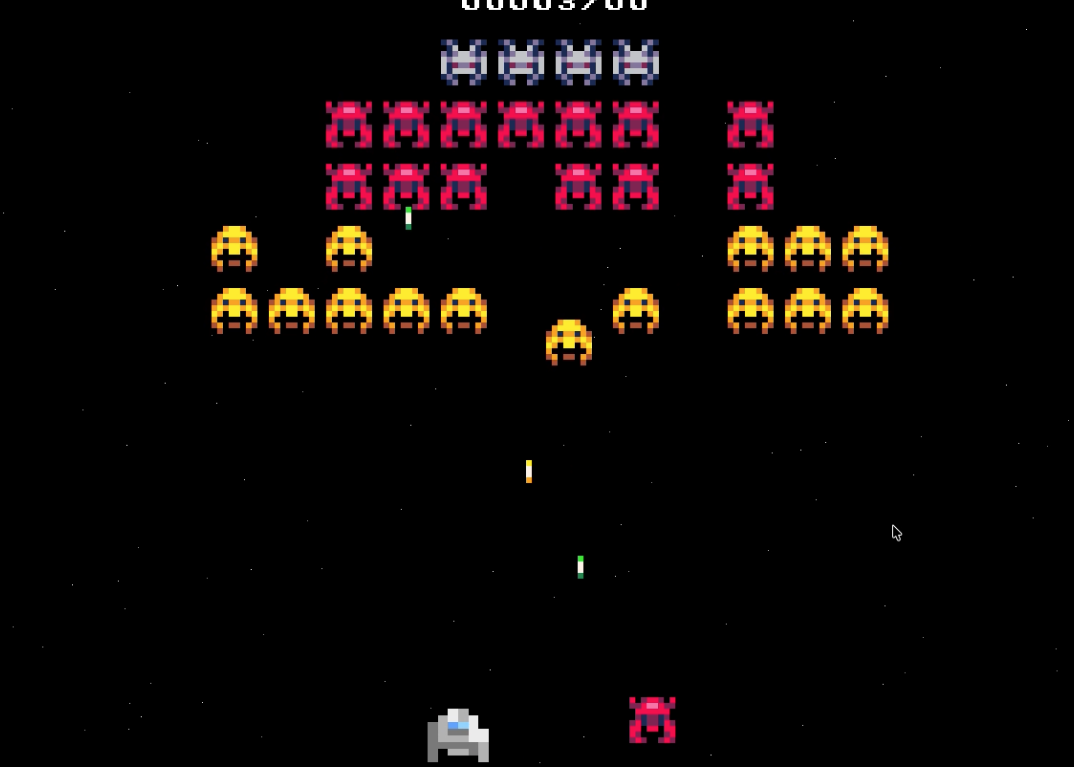
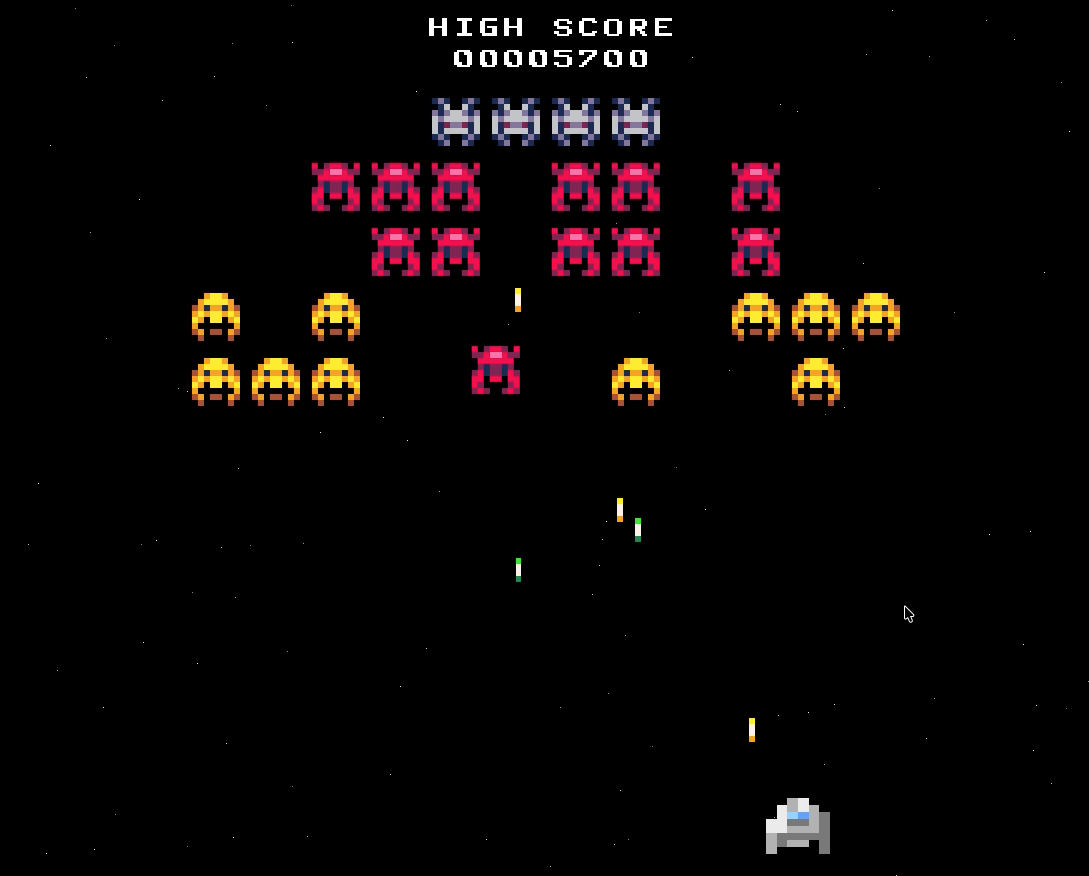
add screenshots

diff --git a/README.md b/README.md
@@ -3,6 +3,14 @@
 A small but structured **C++ arcade-style space shooter** built with **raylib** and **CMake**.
 The project does not require a global raylib installation thanks to Git submodules.
 
+## Screenshots
+
+<p align="center">
+  <img src="assets/screenshots/gameplay.png" width="45%">
+  <img src="assets/screenshots/wave.png" width="45%">
+  <img src="assets/screenshots/game_over.png" width="45%">  
+</p>
+
 
 # Requirements:
 
